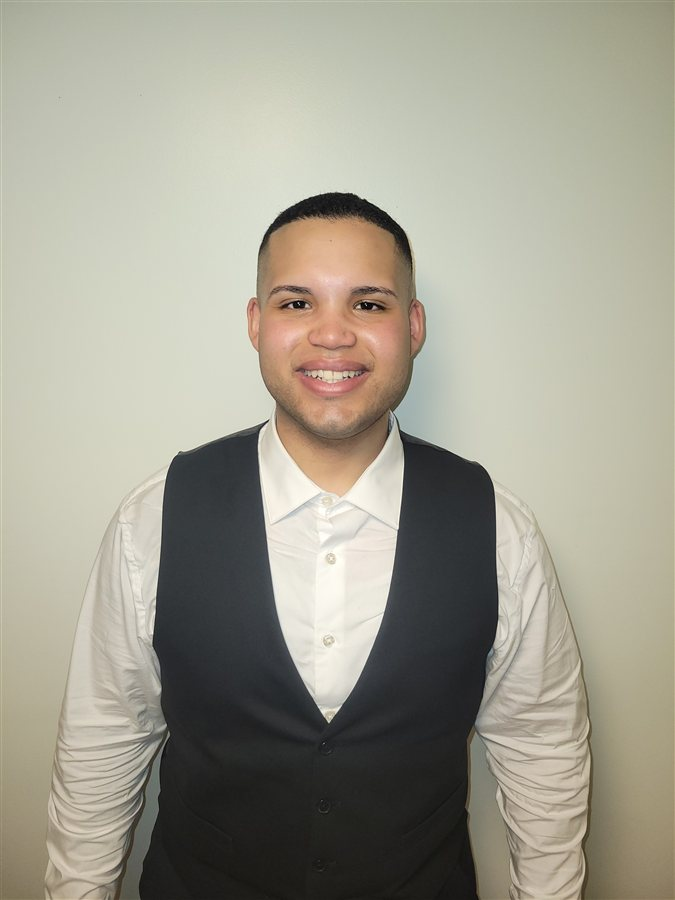
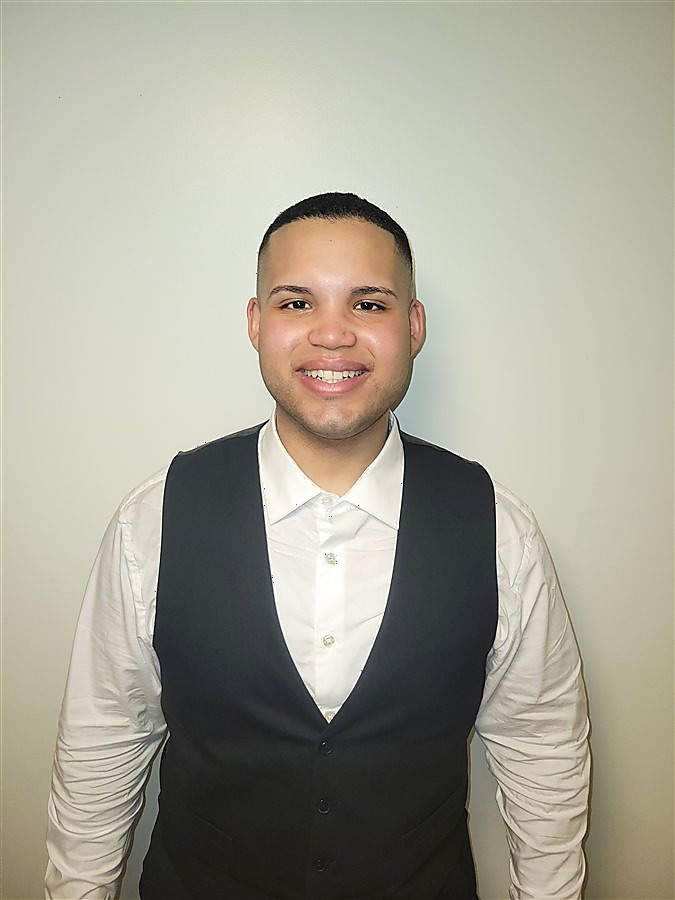
Sharpen Anthony's photo and clarify his teaching role
Applies contrast/sharpening correction to Anthony's headshot, and
updates the Educator bio to specify he teaches integrated ENL/ELA
to grades 9-12.

diff --git a/about.html b/about.html
@@ -67,7 +67,7 @@
       </ul>
 
       <h3>Educator</h3>
-      <p>I teach secondary multilingual learners in New York: newcomers and Students with Limited or Interrupted Formal Education (SLIFE), the students most schools are least prepared to serve. My classroom is where second language acquisition theory meets a bell schedule. I design sheltered instruction that gives students at the earliest stages of English real access to grade-level texts and ideas, along with a genuine pathway to the NYS English Regents and graduation. And because what students read matters as much as how, I build curriculum around culturally and linguistically sustaining literature, so my students meet their own languages, communities, and experiences on the page.</p>
+      <p>I teach secondary multilingual learners in New York: newcomers and Students with Limited or Interrupted Formal Education (SLIFE), the students most schools are least prepared to serve. My classroom is where second language acquisition theory meets a bell schedule. I teach integrated ENL/ELA to grades 9-12, designing sheltered instruction that gives students at the earliest stages of English real access to grade-level texts and ideas, along with a genuine pathway to the NYS English Regents and graduation. And because what students read matters as much as how, I build curriculum around culturally and linguistically sustaining literature, so my students meet their own languages, communities, and experiences on the page.</p>
 
       <h3>Researcher</h3>
       <p>My research in applied linguistics and literacy education starts from an uncomfortable observation: the field's dominant theories of reading, vocabulary, and assessment quietly assume a print-literate learner, an assumption SLIFE students specifically do not share. I'm working through what vocabulary development, reading comprehension, and valid assessment look like when that assumption is removed. At the center of this work is a reconceptualization of reading comprehension for SLIFE, and a clear account of what that reconceptualization needs to translate to in technology designed for multilingual learners who are SLIFE. The same lens shapes my daily practice, where I design construct-valid classroom assessments and challenge the measures that put construct-irrelevant barriers in front of multilingual learners and students with disabilities.</p>
